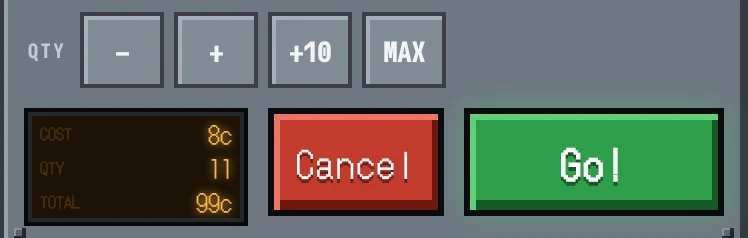
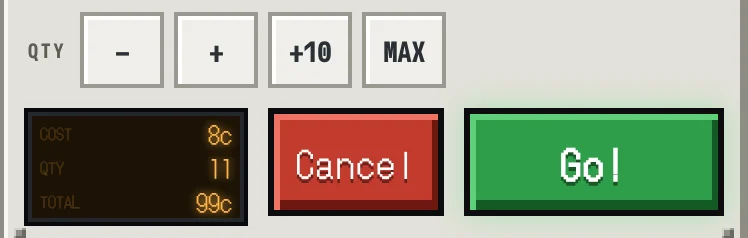
Screenshots of the pale v73 panels
Claude-Session: https://claude.ai/code/session_01UWaUzJwC7EiNVx9Ep3UKit

diff --git a/sw.js b/sw.js
@@ -1,7 +1,7 @@
 // GENERATED by tools/make_sw.py — do not edit by hand.
 // Keeps the notes so they open offline. Online, every request goes to the
 // network first (an edit shows at once) and refreshes the kept copy.
-const CACHE = 'labolic-wiki-7f941eef09';
+const CACHE = 'labolic-wiki-18176a6ce0';
 const PREFIX = 'labolic-wiki-';
 const FILES = [
   "./",
